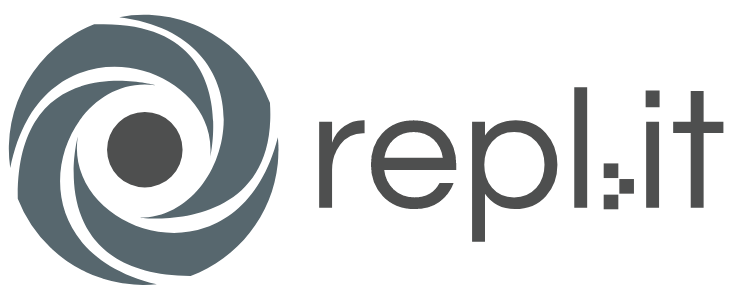
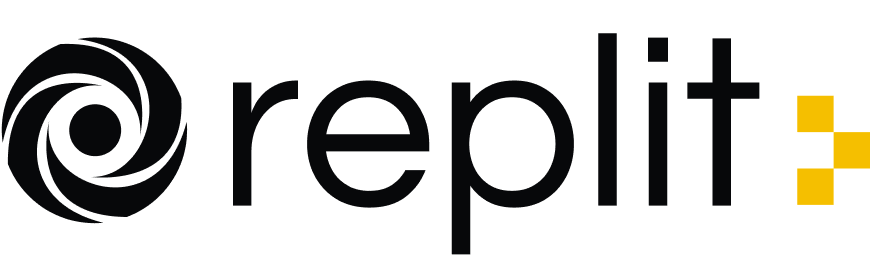
Add gold sponsors

diff --git a/index.html b/index.html
@@ -707,7 +707,7 @@
         </div>
 
 
-        <!-- <div class="row">
+        <div class="row">
           <div class="col-12">
             <div class="section-title-header text-center">
               <h2 id="sponsor-heading" class="section-title wow fadeInUp" data-wow-delay="0.2s">Gold Sponsors</h2>
@@ -717,13 +717,13 @@
         <div class="row mb-30 text-center wow fadeInDown" data-wow-delay="0.3s">
           <div class="col-lg-12">
             <div class="sponsors-logo text-center">
-               <a href="https://github.com/"><img style="width: 275px;" src="{% static 'img/sponsors/github.png' %}" alt=""></a>
-               <a href="https://filecoin.io"><img style="width: 275px;" src="{% static 'img/sponsors/filecoin.png' %}" alt=""></a>
-               <a href="https://celo.org "><img style="height: 80px;" src="{% static 'img/sponsors/celo.png' %}" alt=""></a>
-               <a href="https://tezos.com"><img style="width: 275px;" src="{% static 'img/sponsors/tezos.png' %}" alt=""></a>
+               <!-- <a href="https://github.com/"><img style="width: 275px;" src="{% static 'img/sponsors/github.png' %}" alt=""></a> -->
+               <a href="https://filecoin.io"><img style="width: 275px;" src="img/sponsors/filecoin.png" alt=""></a>
+               <a href="https://solana.com/"><img style="width: 275px;" src="img/sponsors/solana.png" alt=""></a>
+               <a href="https://replit.com/"><img style="width: 275px;" src="img/sponsors/replit.png" alt=""></a>
             </div>
           </div>
-        </div> -->
+        </div>
 
 
         <!-- <div class="row">
